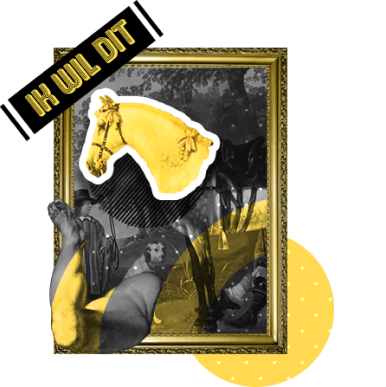
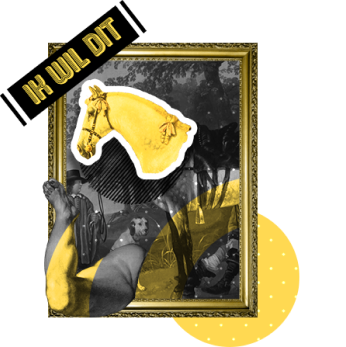
added backgrounds and css fixes

diff --git a/src/css/style.css b/src/css/style.css
@@ -480,9 +480,7 @@ h3 {
   position: relative;
   padding-top: 1rem;
   overflow: hidden;
-  background-image: url(../assets/img/onboardingbg.svg);
   background-repeat: no-repeat;
-  background-position: bottom left;
 
   & h4 {
     text-transform: uppercase;
@@ -494,6 +492,30 @@ h3 {
   & p {
     padding: 0 3vw;
   }
+}
+
+.onboarding1 {
+  background-image: url(../assets/img/onboardingbg1.svg);
+  background-position: bottom left;
+}
+
+.onboarding2 {
+  background-image: url(../assets/img/onboardingbg2.svg);
+  background-position: top left;
+}
+
+.onboarding3 {
+  background-image: url(../assets/img/onboardingbg3.svg);
+  background-position: bottom right;
+}
+
+.onboardingtxt {
+  position: absolute;
+  bottom: 30vh;
+  margin-left: auto;
+  margin-right: auto;
+  left: 0;
+  right: 0;
 }
 
 .onboardingSkip {
@@ -510,7 +532,7 @@ h3 {
   margin-top: 5rem;
   width: 100vw;
   position: absolute;
-  bottom: 15rem;
+  bottom: 20vh;
 }
 
 .arrowBack {

diff --git a/src/js/billboard/OnboardingPage.jsx b/src/js/billboard/OnboardingPage.jsx
@@ -18,14 +18,16 @@ const OnboardingPage = ({onboarding, currentPage, onNext}) => {
   }
 
   return (
-    <div className="onboarding">
+    <div className={"onboarding onboarding" + currentPage}>
       <img src="./assets/img/arrow_back.png" alt="back arrow" className={"arrowBack" + (currentPage===1 ? " hidden" : "")} onClick={() => handleBack()}/>
       <img src="./assets/img/boijmans-logo.png" alt="logo"/>
 
       <section>
-        <img src={"./assets/img/onboarding"+currentPage+".png"} alt=""/>
-        <h4>{onboarding[currentPage].title}</h4>
-        <p>{onboarding[currentPage].tekst}</p>
+        <img src={"./assets/img/onboarding"+currentPage+".png"} alt="onboarding"/>
+        <article className="onboardingtxt">
+          <h4>{onboarding[currentPage].title}</h4>
+          <p>{onboarding[currentPage].tekst}</p>
+        </article>
       </section>
 
       <section className="onboardingBottom">
